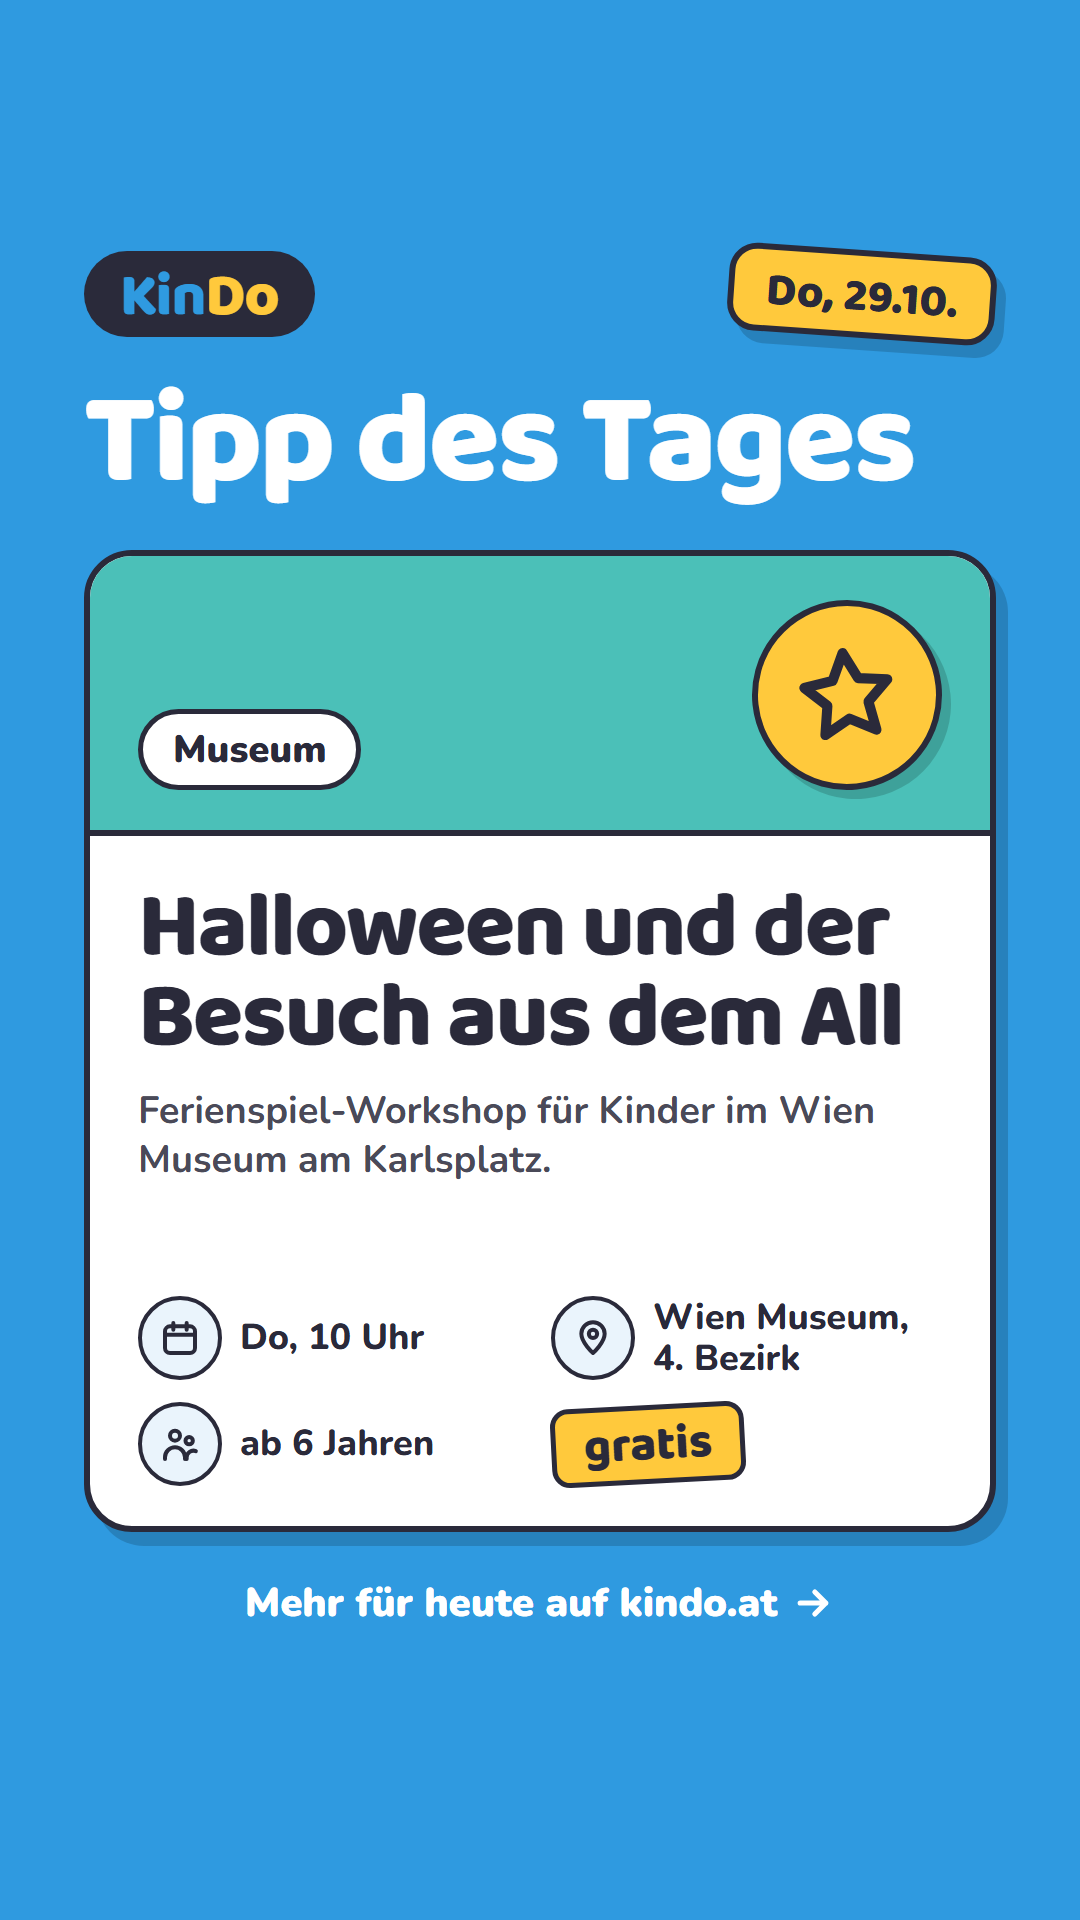
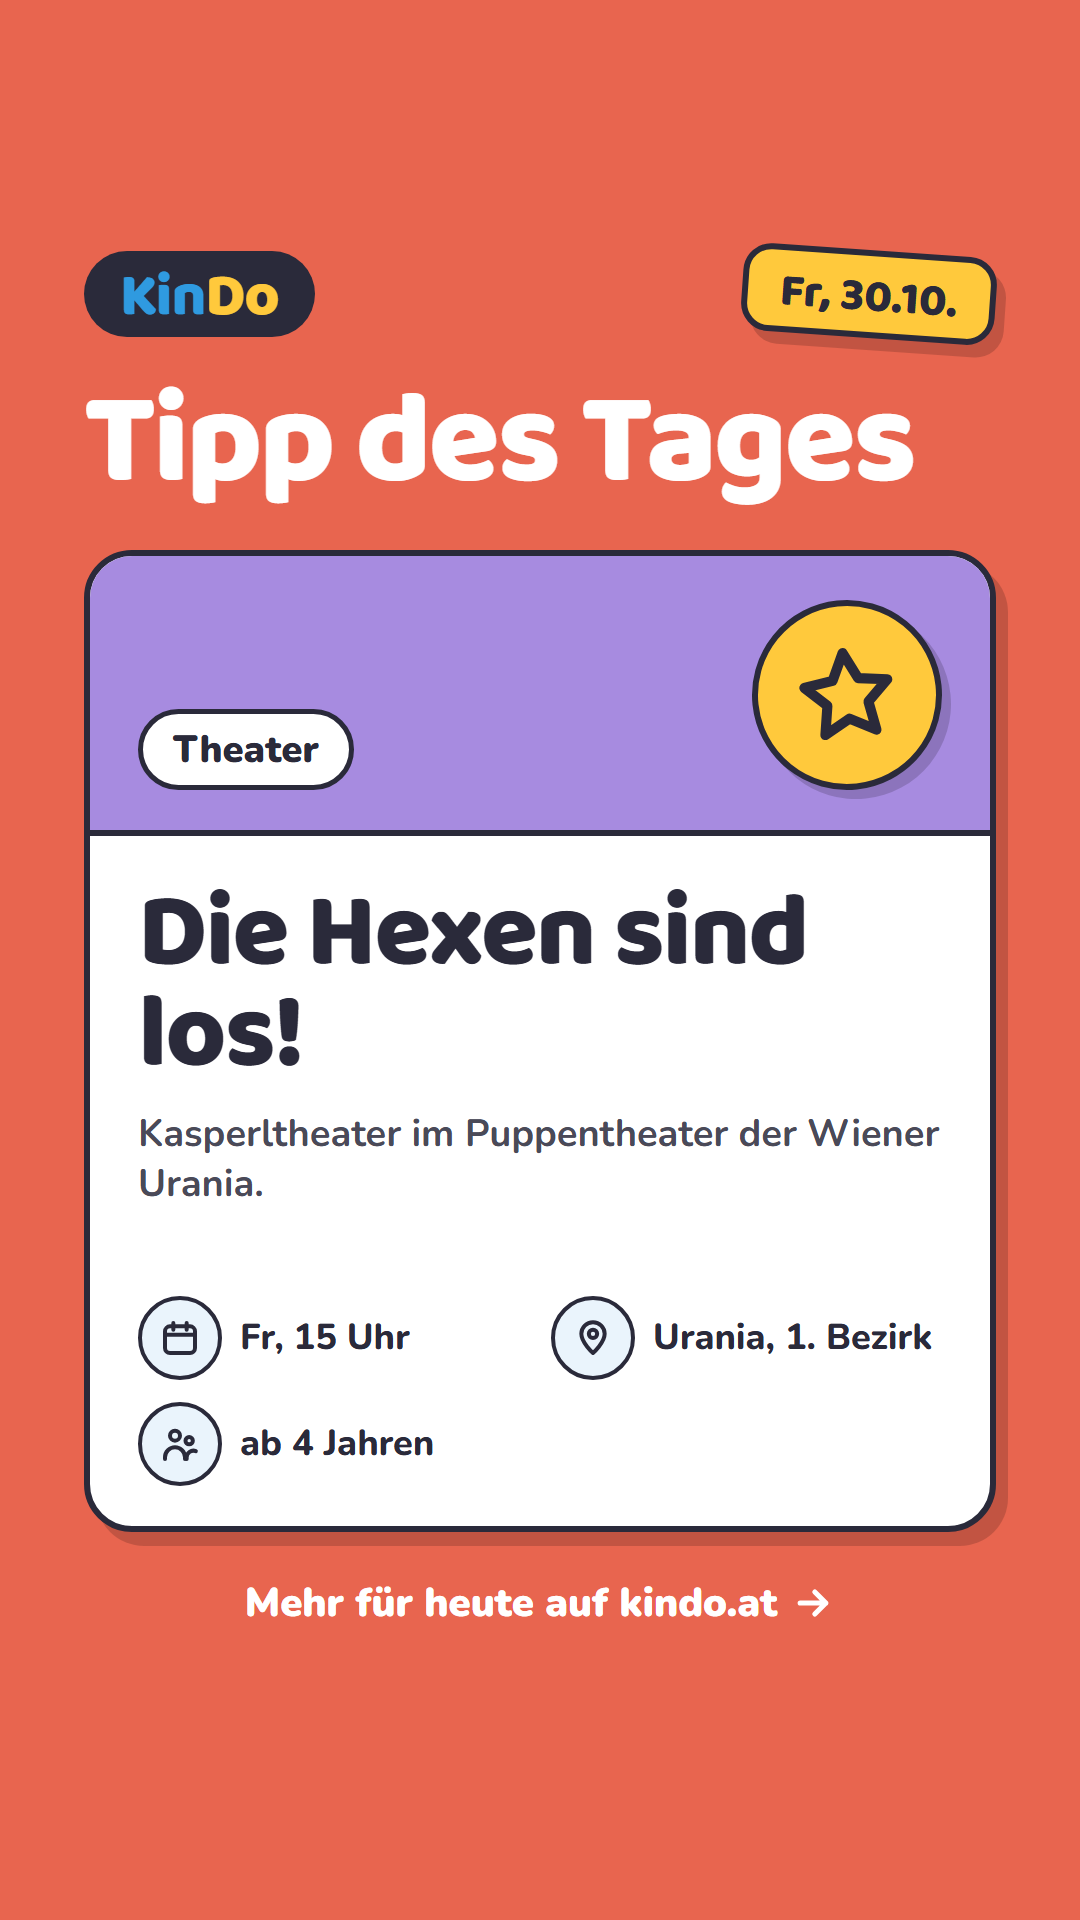
Story Tipp des Tages 2026-10-30

diff --git a/story/README.md b/story/README.md
@@ -1,8 +1,8 @@
-# Tipp des Tages – 29.10.
+# Tipp des Tages – 30.10.
 
-![Tipp des Tages: Halloween und der Besuch aus dem All](2026-10-29/01.png)
+![Tipp des Tages: Die Hexen sind los!](2026-10-30/01.png)
 
-**Link für den Sticker:** https://www.kindo.at/veranstaltungen/151575
+**Link für den Sticker:** https://www.kindo.at/veranstaltungen/264828
 
 So geht's: Bild antippen und speichern, in Instagram als Story posten, Link-Sticker mit dem Link oben dazugeben.
 
